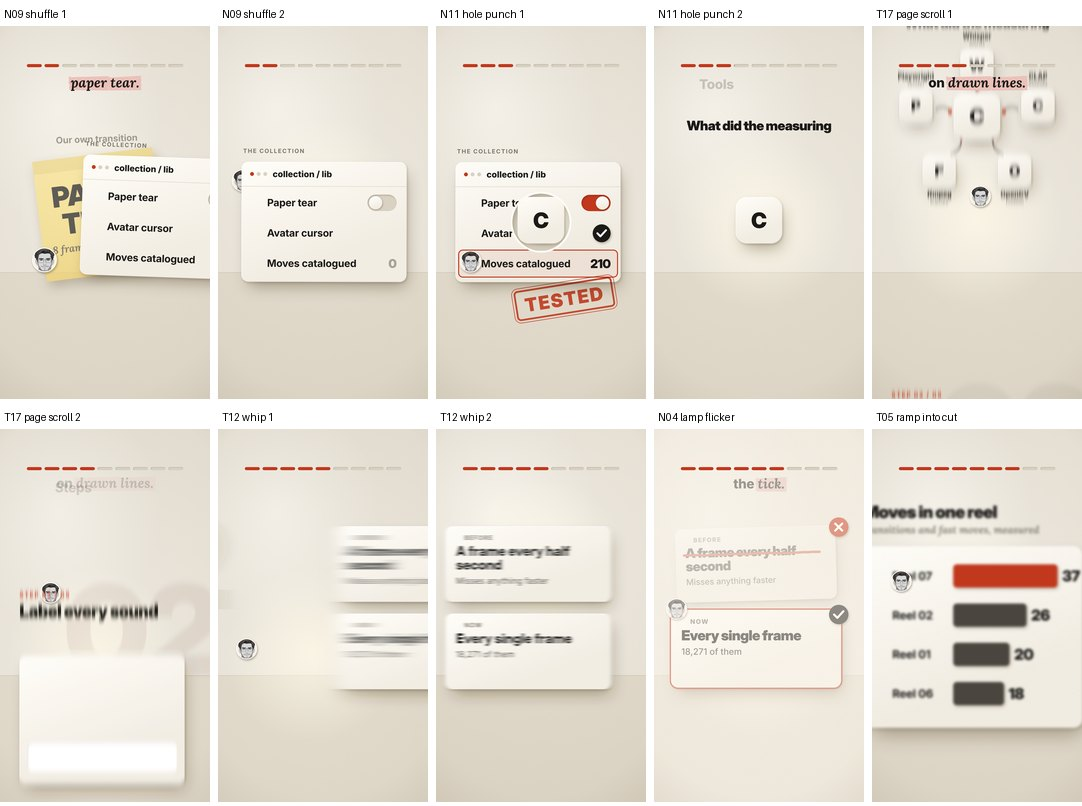
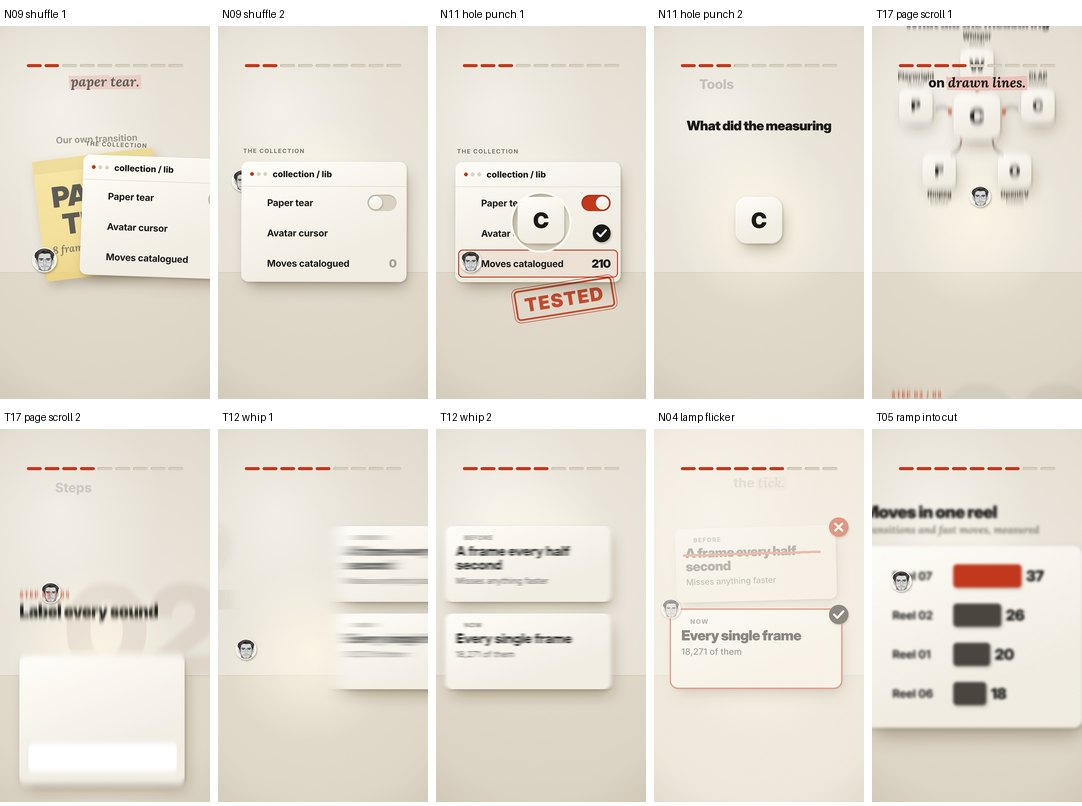
Add the script that renders the collection's demo sheets, and refresh them (#7)
Claude-Session: https://claude.ai/code/session_01Eh7A8fmmnjdrmEmc7wVGjB

diff --git a/collection/tools/make_demo.py b/collection/tools/make_demo.py
@@ -1,0 +1,61 @@
+#!/usr/bin/env python3
+"""Render the demo sheets in collection/demo from our own code.
+
+  python collection/tools/make_demo.py
+
+Plans reels/engine-test, asks the engine for chosen frames and lays them out
+with labels. Run it again after changing anything in collection/lib or studio.
+"""
+import glob
+import json
+import os
+import shutil
+import subprocess
+
+from PIL import Image, ImageDraw
+
+ROOT = os.path.dirname(os.path.dirname(os.path.dirname(os.path.abspath(__file__))))
+os.chdir(ROOT)
+os.makedirs("build", exist_ok=True)
+subprocess.run(["python3", "scripts/plan_reel.py", "reels/engine-test/reel.json", "--out", "build/demo.timed.json"], check=True)
+spec = json.load(open("build/demo.timed.json"))
+st = {s["type"]: s for s in spec["scenes"]}
+F = 1 / 30
+
+
+def sheet(name, items, w=250, cols=None):
+    d = f"build/demo_{name}"
+    shutil.rmtree(d, ignore_errors=True)
+    times = ",".join(f"{t:.4f}" for t, _ in items)
+    subprocess.run(["python3", "studio/render.py", "build/demo.timed.json", "--stills", d, "--times", times], check=True,
+                   stdout=subprocess.DEVNULL)
+    files = sorted(glob.glob(d + "/*.png"))
+    order = sorted(range(len(items)), key=lambda i: items[i][0])          # stills come back in time order
+    cols = cols or len(files)
+    rows, hh = -(-len(files) // cols), int(w * 1920 / 1080)
+    im = Image.new("RGB", (cols * (w + 8) - 8, rows * (hh + 30)), "white")
+    draw = ImageDraw.Draw(im)
+    for pos, i in enumerate(range(len(items))):
+        f = files[order.index(i)]
+        x, y = (pos % cols) * (w + 8), (pos // cols) * (hh + 30)
+        draw.text((x + 4, y + 8), items[i][1], fill="black")
+        im.paste(Image.open(f).convert("RGB").resize((w, hh), Image.LANCZOS), (x, y + 26))
+    im.save(f"collection/demo/{name}.jpg", quality=86)
+    print(name, im.size)
+
+
+b, u, n, s2, c, ch, sv, ct = (st[k] for k in ("bigWord", "uiCard", "network", "steps", "compare", "chart", "save", "cta"))
+sheet("n01-paper-tear", [(b["start"] + (k - 4) * F, f"frame {k + 1} of 8") for k in range(8)], w=230)
+sheet("transitions", [
+    (u["start"] - 2 * F, "N09 shuffle 1"), (u["start"] + 1 * F, "N09 shuffle 2"),
+    (n["start"] + 1 * F, "N11 hole punch 1"), (n["start"] + 3 * F, "N11 hole punch 2"),
+    (s2["start"] - 2 * F, "T17 page scroll 1"), (s2["start"] + 2 * F, "T17 page scroll 2"),
+    (c["start"] - 1 * F, "T12 whip 1"), (c["start"] + 1 * F, "T12 whip 2"),
+    (ch["start"] - 1 * F, "N04 lamp flicker"), (sv["start"] - 2 * F, "T05 ramp into cut")], w=210, cols=5)
+sheet("elements", [
+    (0.2, "N06 counter running"), (st["hookCounter"]["beats"][0] + 0.45, "N05 avatar cursor + ring"),
+    (b["start"] + b["beats"][0] + 0.5, "N02 sticky-note slam"), (u["start"] + u["beats"][1] + 0.1, "M05 switch, tick, highlight"),
+    (u["end"] - 0.25, "N08 stamp"), (n["end"] - 0.3, "M13 lines to a hub"),
+    (s2["end"] - 0.4, "N15 numeral, N10 underline, M14 typing"), (c["end"] - 0.3, "M07 struck and ticked"),
+    (ch["end"] - 0.3, "M03 bar race"), (sv["end"] - 0.2, "A06 save prompt"),
+    (ct["start"] + ct["beats"][0] + 0.9, "U17 keys, U18 comment"), (ct["end"] - 0.2, "Outro: sign-off, Follow")], w=210, cols=6)
